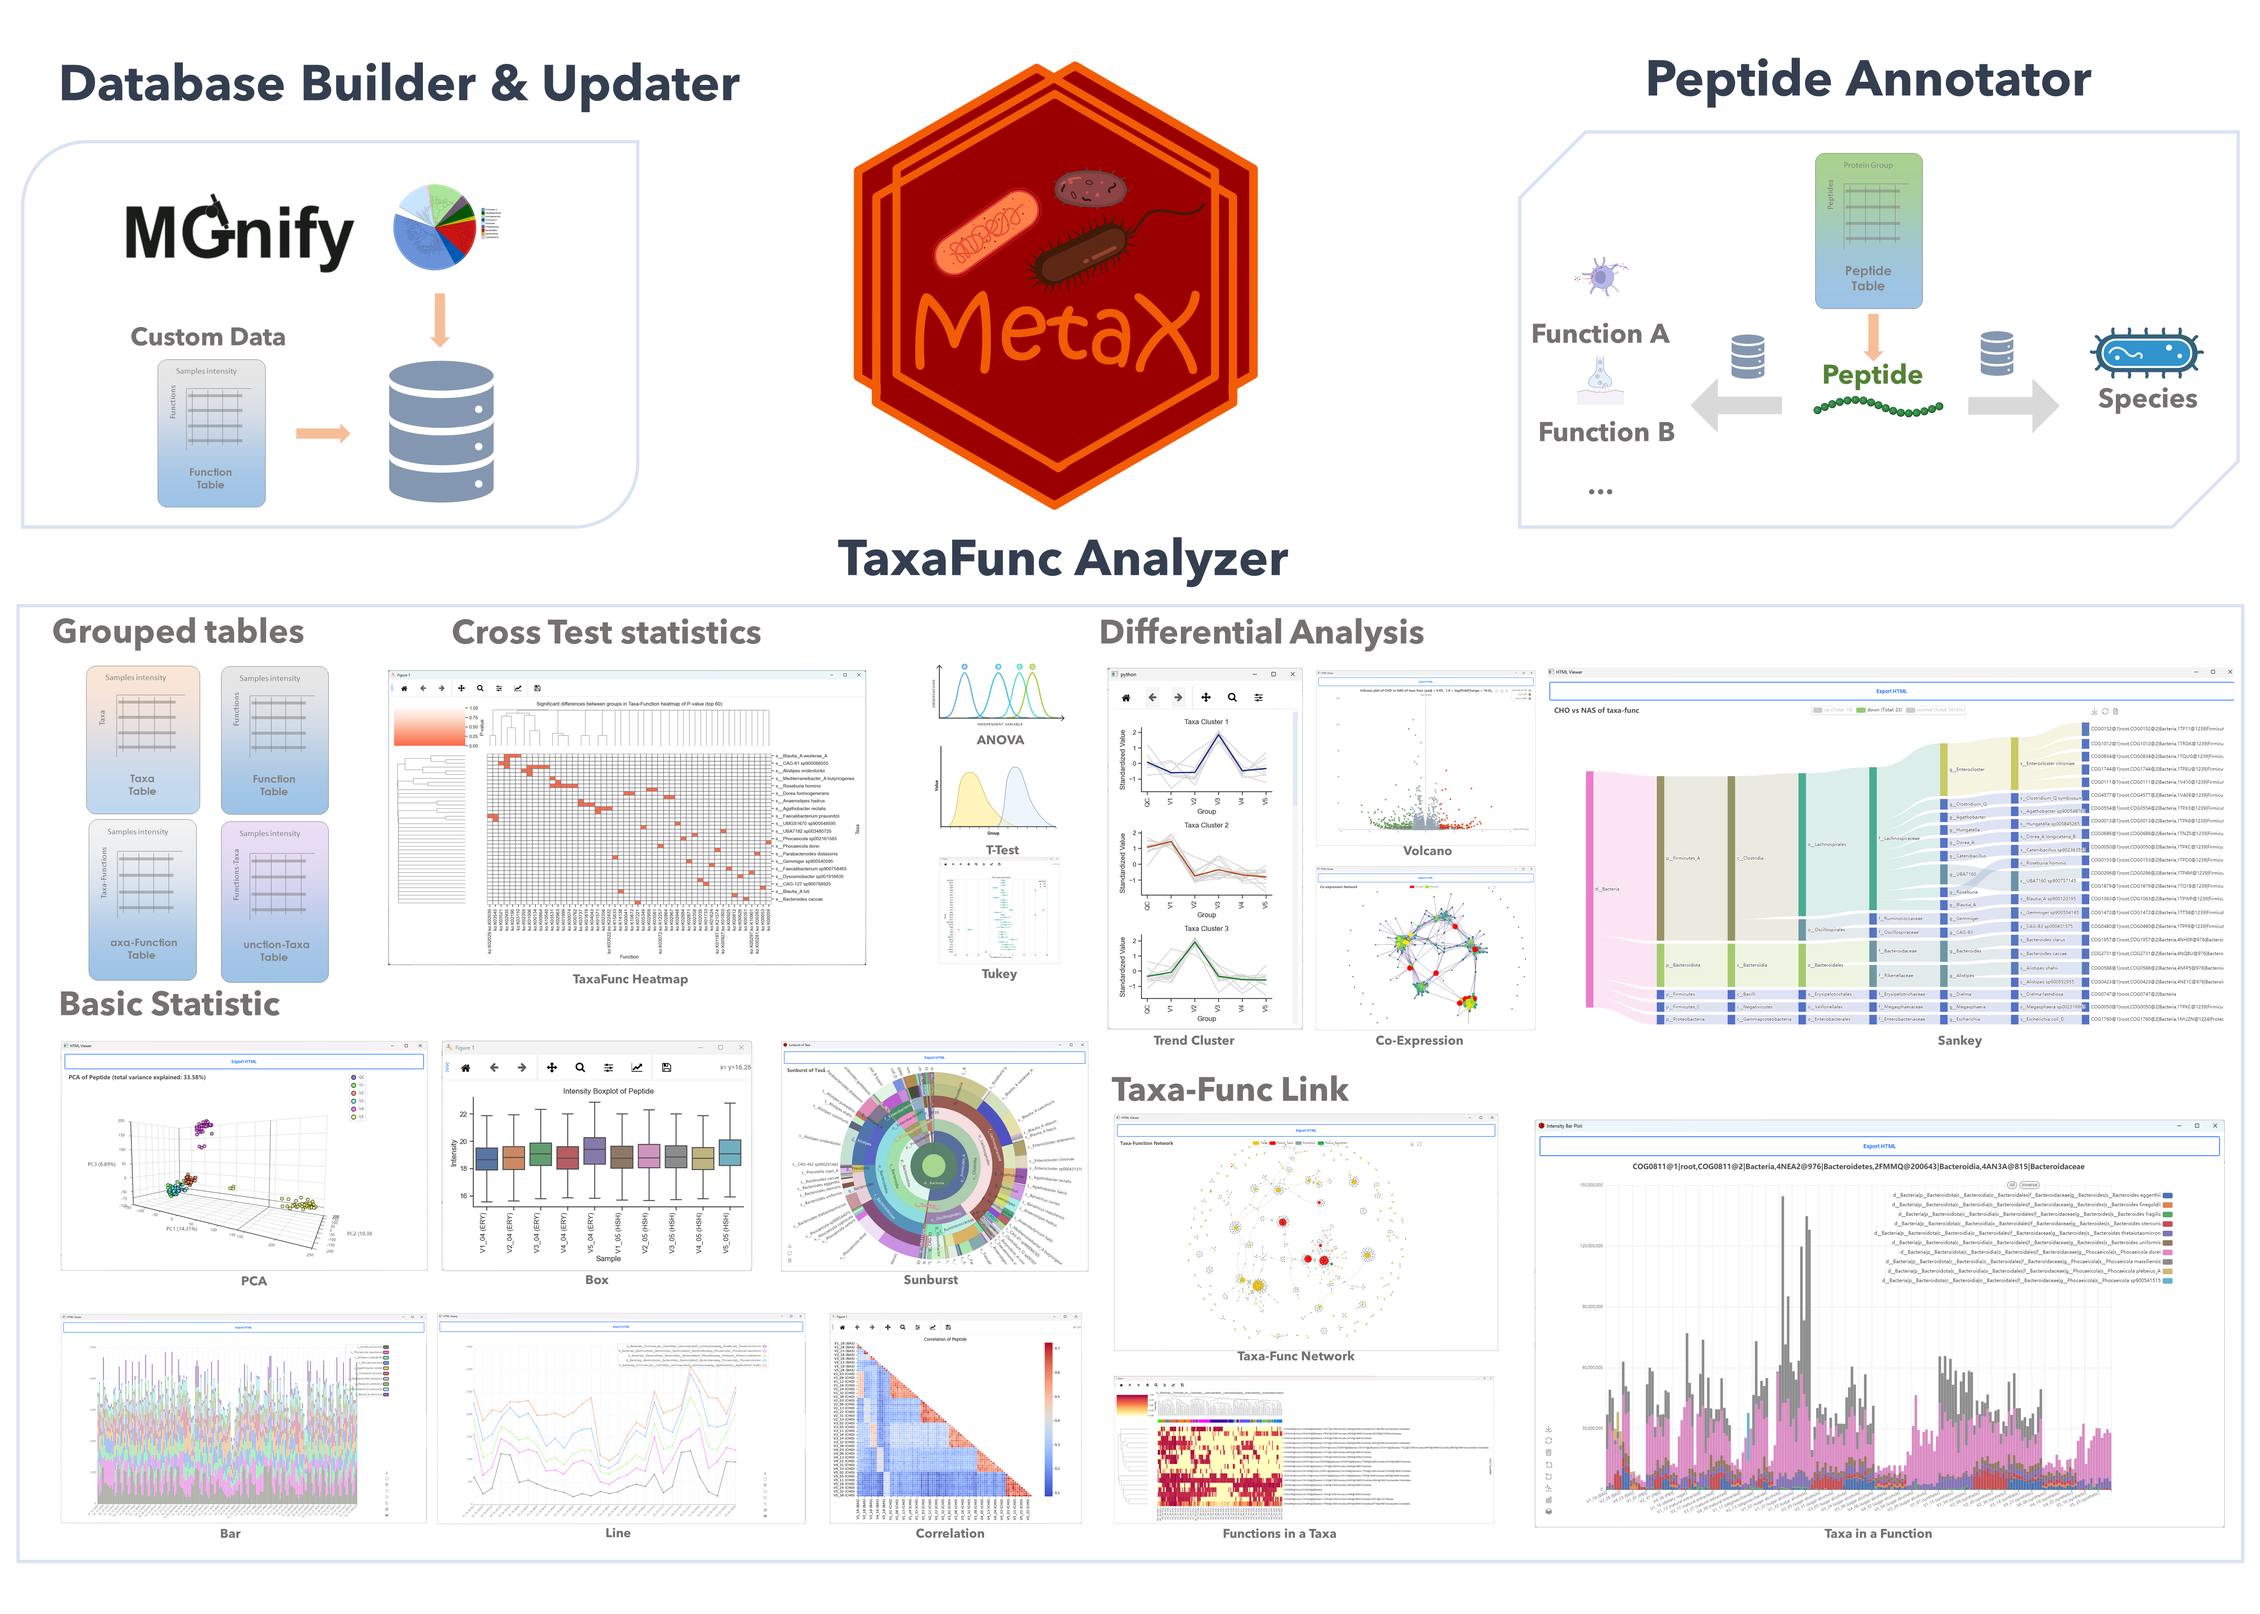
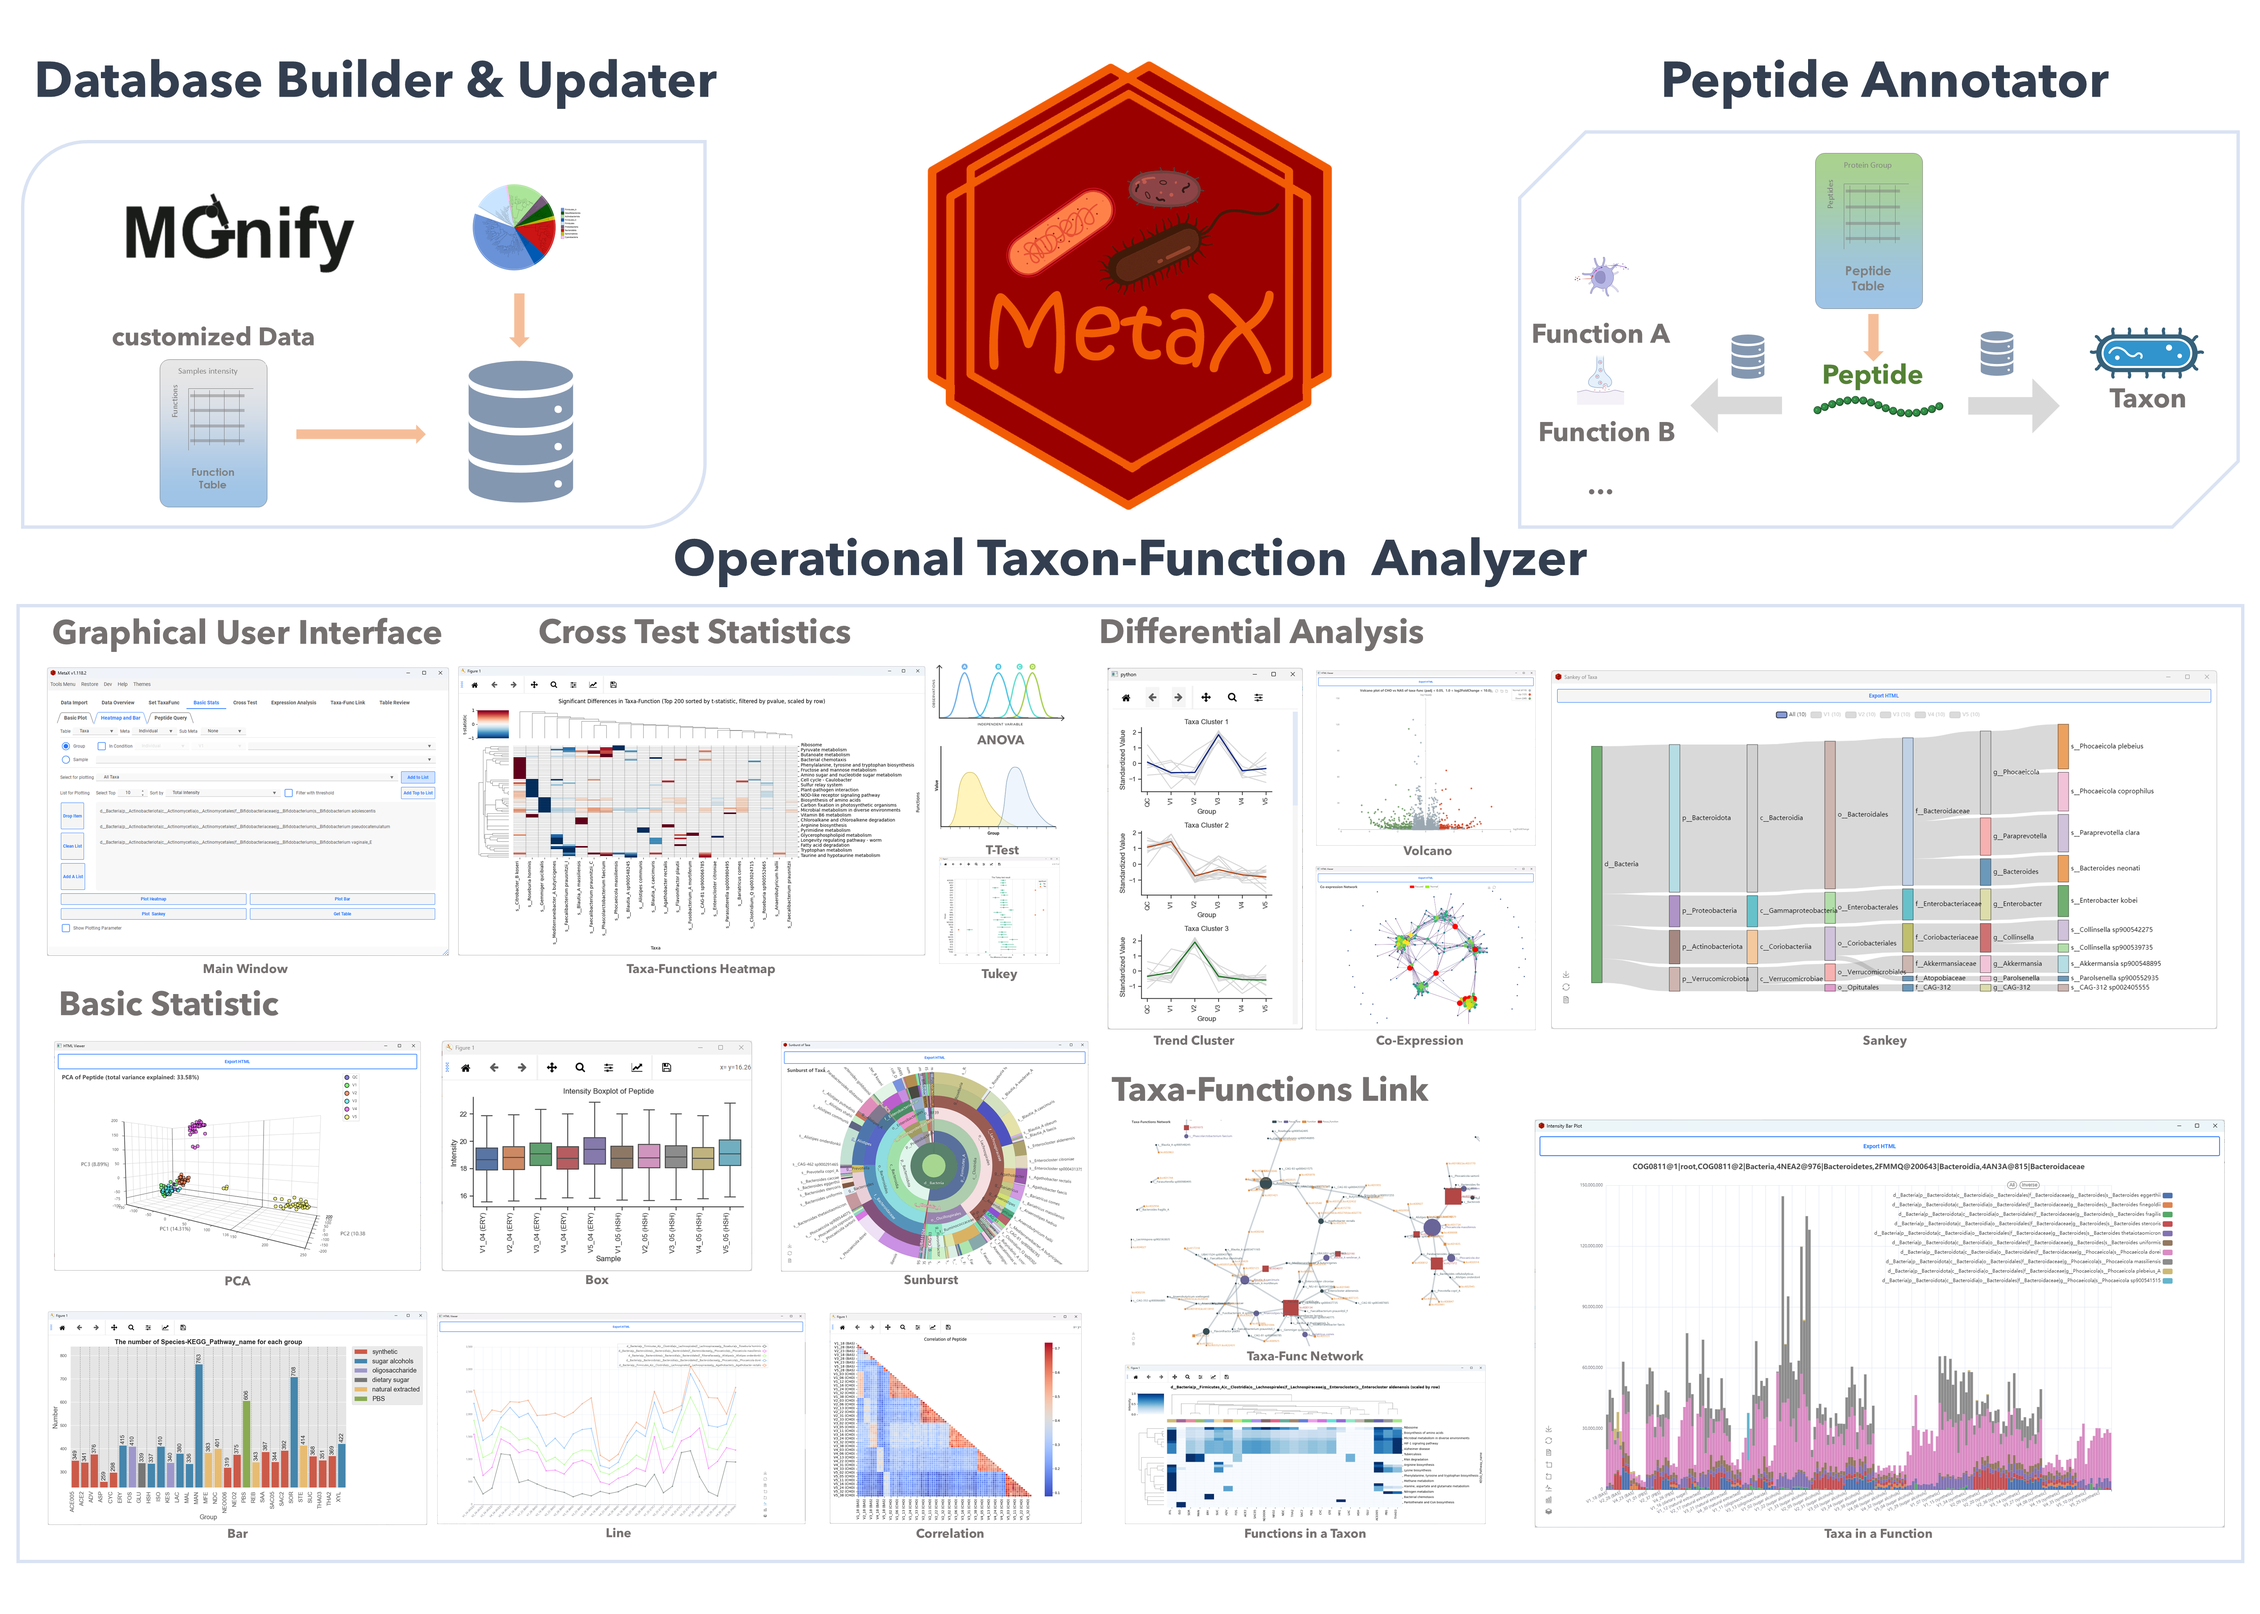
modified:   README.md

diff --git a/README.md b/README.md
@@ -13,6 +13,12 @@ MetaX also features <u>statistical modules</u> and <u>plotting tools</u> for ana
 
 ![OTF_Structure](https://github.com/byemaxx/MetaX/raw/main/Docs/MetaX_Cookbook.assets/OTF_Structure.png)
 
+## OTF Analyzer
+
+The Tools in OTF Analyzer
+
+![compostion](https://github.com/byemaxx/MetaX/raw/main/Docs/MetaX_Cookbook.assets/composition.png)
+
 ## OTFs Network
 
 Linking Taxa and Functions in different levels of the hierarchy, and different functional categories. e.g., **Species-KO**, **Genus-CAZy**, **Phylum-EC**, etc.
